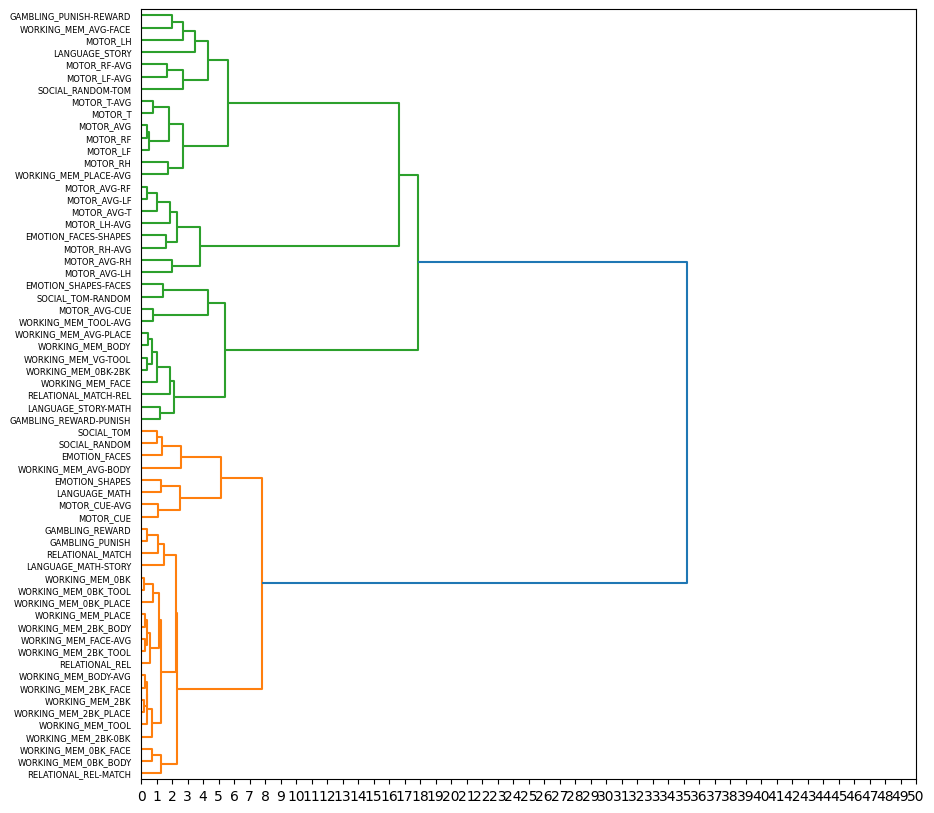
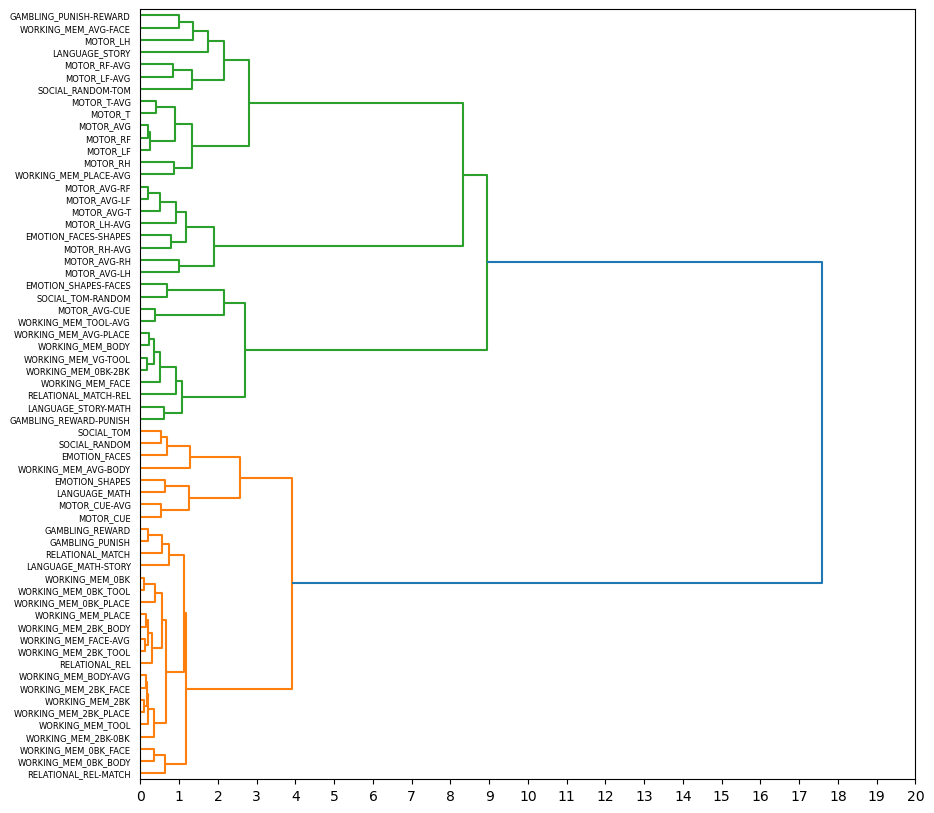
fix list of DLPFC, add rescaling of rdm

diff --git a/launch_jobs/MeanSTD.py b/launch_jobs/MeanSTD.py
@@ -7,7 +7,7 @@ import scipy.cluster.hierarchy as sch
 indexDF = ['WORKING_MEM_2BK_BODY', 'WORKING_MEM_2BK_FACE', 'WORKING_MEM_2BK_PLACE', 'WORKING_MEM_2BK_TOOL', 'WORKING_MEM_0BK_BODY', 'WORKING_MEM_0BK_FACE', 'WORKING_MEM_0BK_PLACE', 'WORKING_MEM_0BK_TOOL', 'WORKING_MEM_2BK', 'WORKING_MEM_0BK', 'WORKING_MEM_2BK-0BK', 'WORKING_MEM_neg_2BK', 'WORKING_MEM_neg_0BK', 'WORKING_MEM_0BK-2BK', 'WORKING_MEM_BODY', 'WORKING_MEM_FACE', 'WORKING_MEM_PLACE', 'WORKING_MEM_TOOL', 'WORKING_MEM_BODY-AVG', 'WORKING_MEM_FACE-AVG', 'WORKING_MEM_PLACE-AVG', 'WORKING_MEM_TOOL-AVG', 'WORKING_MEM_neg_BODY', 'WORKING_MEM_neg_FACE', 'neg_PLACE', 'WORKING_MEM_neg_TOOL', 'WORKING_MEM_AVG-BODY', 'WORKING_MEM_AVG-FACE', 'WORKING_MEM_AVG-PLACE', 'WORKING_MEM_VG-TOOL', 'GAMBLING_PUNISH', 'GAMBLING_REWARD', 'GAMBLING_PUNISH-REWARD', 'GAMBLING_neg_PUNISH', 'GAMBLING_neg_REWARD', 'GAMBLING_REWARD-PUNISH', 'MOTOR_CUE', 'MOTOR_LF', 'MOTOR_LH', 'MOTOR_RF', 'MOTOR_RH', 'MOTOR_T', 'MOTOR_AVG', 'MOTOR_CUE-AVG', 'MOTOR_LF-AVG', 'MOTOR_LH-AVG', 'MOTOR_RF-AVG', 'MOTOR_RH-AVG', 'MOTOR_T-AVG', 'MOTOR_neg_CUE', 'MOTOR_neg_LF', 'MOTOR_neg_LH', 'MOTOR_neg_RF', 'MOTOR_neg_RH', 'MOTOR_neg_T', 'MOTOR_neg_AVG', 'MOTOR_AVG-CUE', 'MOTOR_AVG-LF', 'MOTOR_AVG-LH', 'MOTOR_AVG-RF', 'MOTOR_AVG-RH', 'MOTOR_AVG-T', 'LANGUAGE_MATH', 'LANGUAGE_STORY', 'LANGUAGE_MATH-STORY', 'LANGUAGE_STORY-MATH', 'LANGUAGE_neg_MATH', 'LANGUAGE_neg_STORY', 'SOCIAL_RANDOM', 'SOCIAL_TOM', 'SOCIAL_RANDOM-TOM', 'SOCIAL_neg_RANDOM', 'SOCIAL_neg_TOM', 'SOCIAL_TOM-RANDOM', 'RELATIONAL_MATCH', 'RELATIONAL_REL', 'RELATIONAL_MATCH-REL', 'RELATIONAL_REL-MATCH', 'RELATIONAL_neg_MATCH', 'RELATIONAL_neg_REL', 'EMOTION_FACES', 'EMOTION_SHAPES', 'EMOTION_FACES-SHAPES', 'EMOTION_neg_FACES', 'EMOTION_neg_SHAPES', 'EMOTION_SHAPES-FACES']   
 indexDFnoneg = ['WORKING_MEM_2BK_BODY', 'WORKING_MEM_2BK_FACE', 'WORKING_MEM_2BK_PLACE', 'WORKING_MEM_2BK_TOOL', 'WORKING_MEM_0BK_BODY', 'WORKING_MEM_0BK_FACE', 'WORKING_MEM_0BK_PLACE', 'WORKING_MEM_0BK_TOOL', 'WORKING_MEM_2BK', 'WORKING_MEM_0BK', 'WORKING_MEM_2BK-0BK', 'WORKING_MEM_0BK-2BK', 'WORKING_MEM_BODY', 'WORKING_MEM_FACE', 'WORKING_MEM_PLACE', 'WORKING_MEM_TOOL', 'WORKING_MEM_BODY-AVG', 'WORKING_MEM_FACE-AVG', 'WORKING_MEM_PLACE-AVG', 'WORKING_MEM_TOOL-AVG', 'WORKING_MEM_AVG-BODY', 'WORKING_MEM_AVG-FACE', 'WORKING_MEM_AVG-PLACE', 'WORKING_MEM_VG-TOOL', 'GAMBLING_PUNISH', 'GAMBLING_REWARD', 'GAMBLING_PUNISH-REWARD', 'GAMBLING_REWARD-PUNISH', 'MOTOR_CUE', 'MOTOR_LF', 'MOTOR_LH', 'MOTOR_RF', 'MOTOR_RH', 'MOTOR_T', 'MOTOR_AVG', 'MOTOR_CUE-AVG', 'MOTOR_LF-AVG', 'MOTOR_LH-AVG', 'MOTOR_RF-AVG', 'MOTOR_RH-AVG', 'MOTOR_T-AVG', 'MOTOR_AVG-CUE', 'MOTOR_AVG-LF', 'MOTOR_AVG-LH', 'MOTOR_AVG-RF', 'MOTOR_AVG-RH', 'MOTOR_AVG-T', 'LANGUAGE_MATH', 'LANGUAGE_STORY', 'LANGUAGE_MATH-STORY', 'LANGUAGE_STORY-MATH', 'SOCIAL_RANDOM', 'SOCIAL_TOM', 'SOCIAL_RANDOM-TOM', 'SOCIAL_TOM-RANDOM', 'RELATIONAL_MATCH', 'RELATIONAL_REL', 'RELATIONAL_MATCH-REL', 'RELATIONAL_REL-MATCH', 'EMOTION_FACES', 'EMOTION_SHAPES', 'EMOTION_FACES-SHAPES', 'EMOTION_SHAPES-FACES']   
 
-DLPFroilist = [26, 67, 68, 70, 71, 73, 83, 84, 85, 86, 87, 96, 98, 206, 247, 148, 250, 251, 253, 264, 265, 266, 267, 276, 278]
+DLPFroilist = [26, 67, 68, 70, 71, 73, 83, 84, 85, 86, 87, 96, 98, 206, 247, 248, 250, 251, 253, 263,264, 265, 266, 267, 276, 278]
 
 data = np.load('DLPFCroi.npy')
 
@@ -19,7 +19,7 @@ print(rdm)
 #if not then do rdm = np.corrcoef(X.T)
 
 # Show matrix plot
-ax = plt.gca();
+ax = plt.gca()
 
 # Major ticks
 ax.set_xticks(np.arange(0, len(indexDFnoneg), 1))
@@ -30,8 +30,12 @@ ax.set_xticklabels(indexDFnoneg, fontsize=6)
 ax.set_yticklabels(indexDFnoneg, fontsize=6)
 plt.setp(ax.get_xticklabels(), rotation=45, ha="right",
          rotation_mode="anchor")
-         
+
+rdm = (rdm + 1) / 2
+
 plt.imshow(rdm)
+
+
 plt.savefig(('rdmnoneg.png'), bbox_inches='tight')
 
 fig,ax = plt.subplots(figsize=(10,10))
@@ -40,12 +44,13 @@ dend = sch.dendrogram(sch.linkage(rdm, method='ward'),
     labels=indexDFnoneg, 
     orientation='right'
     )
-plt.xlim(0,50)
-y = [0,50]
+plt.xlim(0,20)
+y = [0,20]
 plt.xticks(np.arange(min(y), max(y)+1, 1.0))
-plt.show()
+
 plt.savefig(('rdm-hie_noneg.png'), bbox_inches='tight')
 
+plt.show()
 
 
 
@@ -55,38 +60,38 @@ plt.savefig(('rdm-hie_noneg.png'), bbox_inches='tight')
 
 
 
-for nroi in range(25):
-    for ncon in range(20):
+# for nroi in range(25):
+#     for ncon in range(20):
 
-        m = np.mean(data[:,ncon,nroi])
-        print(m)
-        std = np.std(data[:,ncon,nroi])
-        file = open(('DLPFC_ROI_mean_stdev.txt'),'a') 
-        file.write("\n Mean for ROI %d, contrast %d is %f, st dev is  %f"%(nroi,ncon,m,std))
-        file.close()
+#         m = np.mean(data[:,ncon,nroi])
+#         print(m)
+#         std = np.std(data[:,ncon,nroi])
+#         file = open(('DLPFC_ROI_mean_stdev.txt'),'a') 
+#         file.write("\n Mean for ROI %d, contrast %d is %f, st dev is  %f"%(nroi,ncon,m,std))
+#         file.close()
 
 
-rdm = np.corrcoef(data)
-print(rdm)
+# rdm = np.corrcoef(data)
+# print(rdm)
 # should give numcons * numcons matrix
 #if not then do rdm = np.corrcoef(X.T)
 
 # Show matrix plot
-plt.imshow(rdm)
-ax = plt.gca();
+# plt.imshow(rdm)
+# ax = plt.gca();
 
-# Major ticks
-ax.set_xticks(np.arange(0, numcons, 1))
-ax.set_yticks(np.arange(0, numcons, 1))
+# # Major ticks
+# ax.set_xticks(np.arange(0, numcons, 1))
+# ax.set_yticks(np.arange(0, numcons, 1))
 
-# Labels for major ticks
-ax.set_xticklabels(connames)
-ax.set_yticklabels(connames)
+# # Labels for major ticks
+# ax.set_xticklabels(connames)
+# ax.set_yticklabels(connames)
 
 
-for ncon in range(19):
-    plt.figure()
-    ax=sns.stripplot(data = (data[:,ncon,:]), edgecolor = "white", size = 3, jitter = 1, zorder = 0)
-    plt.xlabel('DLPFC ROI')
-    #plt.title('26 DLPFCs ROIs during contrast %s'%(indexDF[ncon]))
-    #plt.savefig(('ROIsperCON%d.png'%(ncon)), dpi=200)
+# for ncon in range(19):
+#     plt.figure()
+#     ax=sns.stripplot(data = (data[:,ncon,:]), edgecolor = "white", size = 3, jitter = 1, zorder = 0)
+#     plt.xlabel('DLPFC ROI')
+#     #plt.title('26 DLPFCs ROIs during contrast %s'%(indexDF[ncon]))
+#     #plt.savefig(('ROIsperCON%d.png'%(ncon)), dpi=200)
